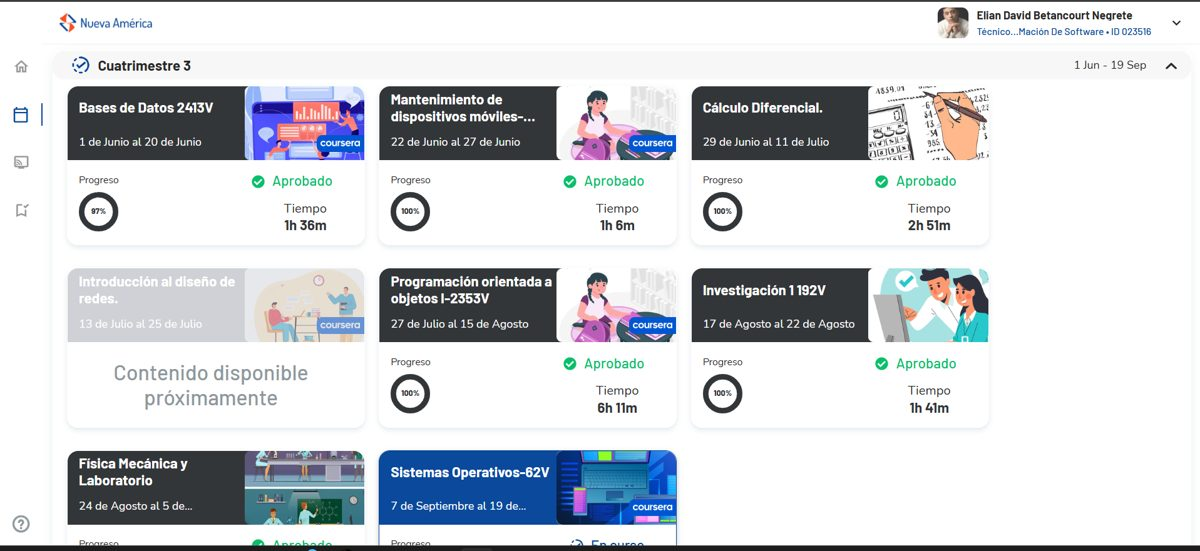
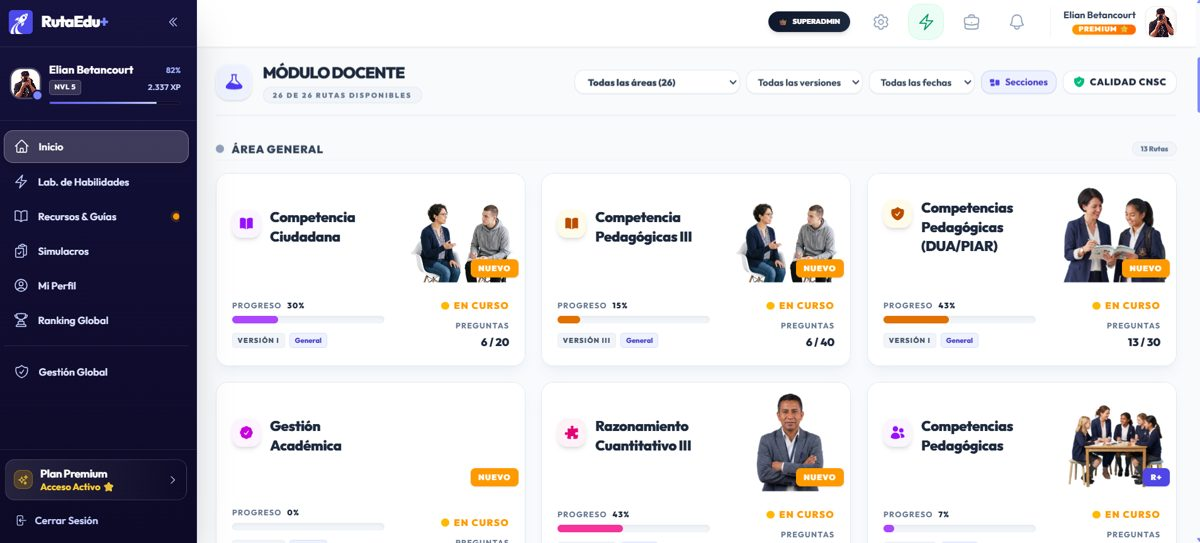
Quita la primera foto de RutaEdu+
Claude-Session: https://claude.ai/code/session_011xTcqHcAXNBJL7q8UrSpWD

diff --git a/datos/emprendimientos.js b/datos/emprendimientos.js
@@ -121,7 +121,7 @@ window.EMPRENDIMIENTOS = [
     descripcion: "Plataforma virtual de preparación para pruebas de Estado y concursos de mérito (Icfes, Concurso Docente, DIAN, Contraloría) con simulacros y módulos de inglés, ofimática y lectura. Plan básico gratis.",
     estudiante: "Elian David Betancourt Negrete", programa: "Ingeniería de Sistemas", ubicacion: "Córdoba",
     whatsapp: "3205140753", instagram: "rutaeduplus", facebook: "https://www.facebook.com/people/Rutaeduplus/61595109244187/", tiktok: "rutaeduplus", web: "",
-    fotos: ["fotos/rutaedu/1.jpg", "fotos/rutaedu/2.jpg", "fotos/rutaedu/3.jpg"] },
+    fotos: ["fotos/rutaedu/1.jpg", "fotos/rutaedu/2.jpg"] },
 
   { id: "servirapi-app", nombre: "ServiRapi App", categoria: "Tecnología y productos digitales",
     descripcion: "App y plataforma que conecta hogares y empresas con técnicos y profesionales certificados, de forma confiable y garantizada.",
